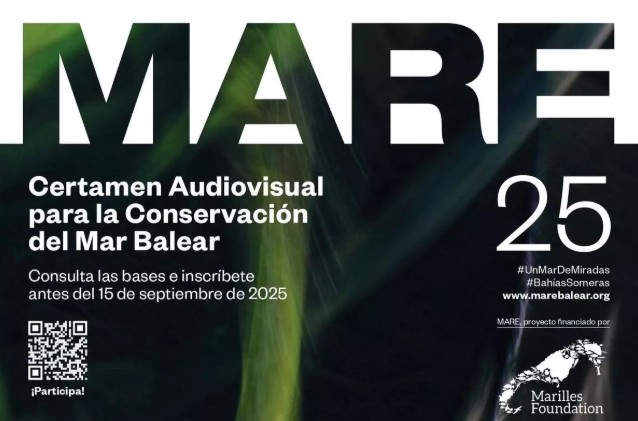
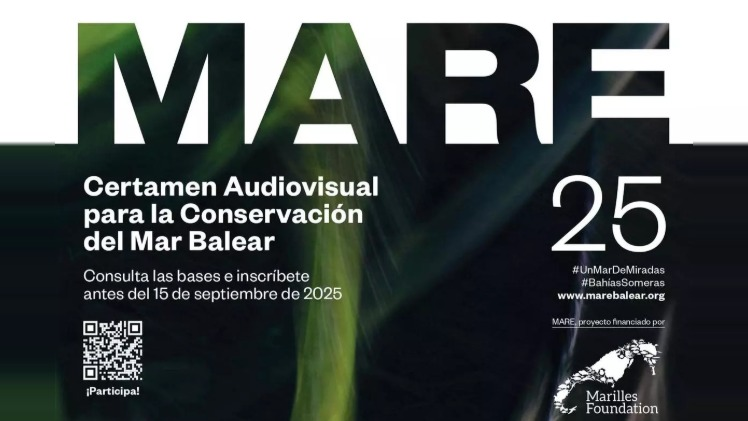
Extend the MARE poster sides to 16:9 so it fills the card without black bars
Claude-Session: https://claude.ai/code/session_01KqzTKoqq5ZeRsGnkyyB3gH

diff --git a/index.html b/index.html
@@ -8,8 +8,8 @@
   <link rel="preconnect" href="https://fonts.googleapis.com">
   <link rel="preconnect" href="https://fonts.gstatic.com" crossorigin>
   <link href="https://fonts.googleapis.com/css2?family=Fraunces:opsz,wght@9..144,300;9..144,500&family=Inter:wght@400;500;600&display=swap" rel="stylesheet">
-  <link rel="stylesheet" href="assets/style.css?v=202610151028">
-  <script src="config.js?v=202610151028"></script>
+  <link rel="stylesheet" href="assets/style.css?v=202610151031">
+  <script src="config.js?v=202610151031"></script>
 </head>
 <body>
   <nav class="nav" id="nav">
@@ -99,6 +99,6 @@
     <p>© <span id="year"></span> <span data-bind="name"></span></p>
   </footer>
 
-  <script src="assets/main.js?v=202610151028"></script>
+  <script src="assets/main.js?v=202610151031"></script>
 </body>
 </html>

diff --git a/config.js b/config.js
@@ -48,7 +48,6 @@ window.SITE = {
       org: "MARE · Audiovisual Competition for the Conservation of the Balearic Sea · Marilles Foundation",
       text: "I entered a portfolio of 20 underwater photographs in the 6th edition of MARE Balear, a competition that uses images to promote the conservation of the Balearic Sea. Five of them made it through the first round of judging.",
       image: "images/mare-balear-2025.jpg",
-      imageFit: "contain",  // muestra el cartel entero sin recortar
       links: [
         { label: "MARE Balear", url: "https://marebalear.org/es/" },
         { label: "Marilles Foundation", url: "https://marilles.org/en/project/mare" }
